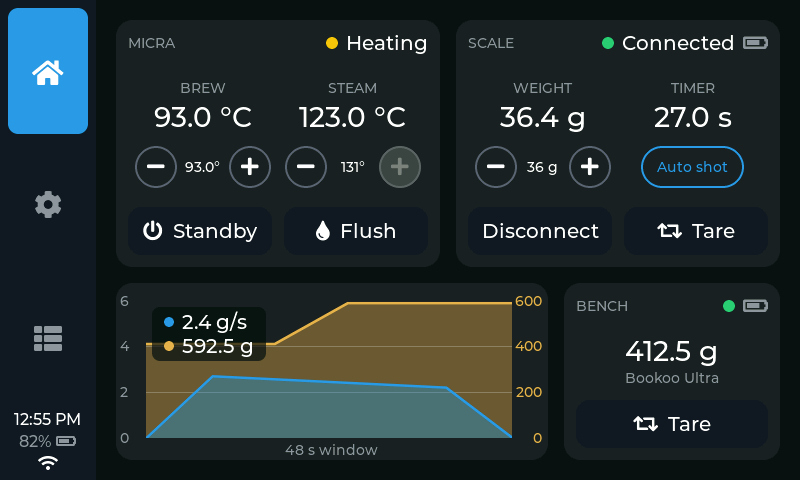
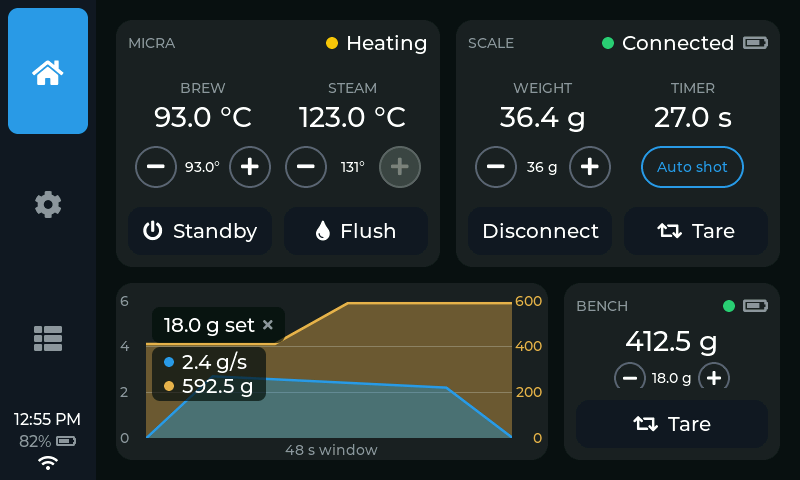
home: the beside-the-graph bench card gets the default-dose stepper too, on the scale name's line
The card is the graph's height — ~65 px of body at 800x480 — so there is
room for the weight and ONE line under it. The stepper takes the scale
name's line (the name is in Settings), and a Record offer / recorded
caption takes it back for as long as it shows (bench_dose_on_caption;
dose_tick re-syncs on a block state change). Button 32 dp where the
screen is 480 logical, the panel's 42 dp on the X boards' 500 — both
measured in the sim: overflow -4 / -19 (slack, not clip); the detail
log's 'home: bench card' line carries the figure. Manual + images.

Changed region(s): [[0.1875, 0.6562, 0.3438, 0.8438], [0.75, 0.6875, 0.9062, 0.8125]]

diff --git a/src/ui/home_tab.cpp b/src/ui/home_tab.cpp
@@ -1171,6 +1171,9 @@ void add_bench_battery(lv_obj_t* status_group, const lv_font_t* cap_font,
 // battery), a hero weight with the scale's name under it, and the actions —
 // Disconnect + Tare in the panel slot, Tare alone beside the graph (its
 // Connect lives in Settings; the beside card is the readout).
+// set_font / btn_size / symbol_font size the default-dose stepper: the
+// caller picks a smaller button where the card is short (beside the graph
+// at 800x480).
 lv_obj_t* build_bench_panel(lv_obj_t* parent, const lv_font_t* cap_font,
                             const lv_font_t* status_font, const lv_font_t* val_font,
                             const lv_font_t* set_font, int btn_size,
@@ -1227,10 +1230,15 @@ lv_obj_t* build_bench_panel(lv_obj_t* parent, const lv_font_t* cap_font,
   // the graph's height — ~62 px of body at 800x480, which the weight and
   // its caption already fill — so it stays the readout it is (Tare only;
   // the dose is dialled in Settings there).
-  if (with_switch) {
+  if (with_switch || !with_connect) {
+    // Beside the graph the card is the graph's height — room for the
+    // weight and ONE line under it: the stepper takes the scale name's
+    // line, and a Record offer takes it back for its moment (App hides
+    // one or the other).
+    out.bench_dose_on_caption = !with_switch;
     lv_obj_set_style_pad_top(body, 0, 0);
-    make_stepper_group(body, btn_size, symbol_font, set_font, &out.bench_dose_value,
-                       &out.bench_dose_minus, &out.bench_dose_plus);
+    make_stepper_group(body, btn_size, symbol_font, set_font,
+                       &out.bench_dose_value, &out.bench_dose_minus, &out.bench_dose_plus);
     out.bench_dose_group = lv_obj_get_parent(out.bench_dose_value);
     lv_obj_set_style_margin_top(out.bench_dose_group, 0, 0);
     lv_obj_add_flag(out.bench_dose_group, LV_OBJ_FLAG_HIDDEN);
@@ -1458,6 +1466,7 @@ void build_home_tab(lv_obj_t* parent, const ScreenProfile& screen, bool scale_en
   out.bench_weight = out.bench_name = out.bench_block = nullptr;
   out.bench_dose_state = 0;
   out.bench_dose_group = out.bench_dose_value = out.bench_dose_minus = out.bench_dose_plus = nullptr;
+  out.bench_dose_on_caption = false;
   out.dose_chip = out.dose_in_label = out.dose_out_label = out.dose_ratio_label =
       out.dose_x_label = nullptr;
   out.dose_chip_state = 0;
@@ -1682,8 +1691,13 @@ void build_home_tab(lv_obj_t* parent, const ScreenProfile& screen, bool scale_en
     lv_obj_set_height(graph_card, lv_pct(100));
     lv_obj_set_width(graph_card, 0);
     lv_obj_set_flex_grow(graph_card, 2);
-    build_bench_panel(lower, panel_cap, panel_status, panel_val, panel_set, panel_btn,
-                      panel_sym, panel_pad, action_h, btn_font,
+    // The card is the graph's height: at 800x480 its body (~65 px) holds
+    // the weight plus a 32 dp stepper, no more; the X boards' extra height
+    // (500 logical) takes the panel-size button.
+    const bool tall = screen.height > ui::dp(480);
+    build_bench_panel(lower, panel_cap, panel_status, panel_val, panel_set,
+                      tall ? panel_btn : ui::dp(32), tall ? panel_sym : ui::font_dp(16),
+                      panel_pad, action_h, btn_font,
                       /*with_status_text=*/false, /*with_connect=*/false,
                       /*with_switch=*/false, out);
     lv_obj_set_flex_grow(out.bench_card, 1);
@@ -1718,6 +1732,13 @@ void build_home_tab(lv_obj_t* parent, const ScreenProfile& screen, bool scale_en
                static_cast<int>(lv_obj_get_height(body)), overflow,
                static_cast<int>(lv_obj_get_height(acts)), static_cast<int>(lv_obj_get_y(acts)),
                out.bench_enabled && out.bench_mode == 0 ? 1 : 0);
+  }
+  if (core::log_detail() && out.bench_card != nullptr && out.bench_dose_on_caption) {
+    lv_obj_t* body = lv_obj_get_child(out.bench_card, 1);
+    core::logf("home: bench card h=%d body=%d overflow=%d\n",
+               static_cast<int>(lv_obj_get_height(out.bench_card)),
+               static_cast<int>(lv_obj_get_height(body)),
+               static_cast<int>(lv_obj_get_scroll_bottom(body)));
   }
   // Swap mode starts on the ESPRESSO side: paint the pills to match.
   if (bench_enabled && out.bench_mode == 0 && !out.bench_only) show_bench_side(out, false);

diff --git a/src/ui/app.cpp b/src/ui/app.cpp
@@ -5389,10 +5389,13 @@ void App::dose_tick(const core::MachineSnapshot& snap) {
                                                    : "expired");
 
   // The bench card's block: dormant / Record <dose> / recorded.
+  const int block_was = home_.bench_dose_state;
   if (!have_bench) ui::set_bench_dose(home_, 0, 0.0f);
   else if (dose_.recorded_showing()) ui::set_bench_dose(home_, 2, dose_.pending());
   else if (dose_.candidate()) ui::set_bench_dose(home_, 1, dose_.candidate_dose());
   else ui::set_bench_dose(home_, 0, 0.0f);
+  // Beside the graph the block's caption and the dose stepper share a line.
+  if (home_.bench_dose_on_caption && home_.bench_dose_state != block_was) sync_dose_settings_rows();
 
   // The graph chip builds up: in -> in + placeholder out -> in + out + ratio.
   const core::BrewSnapshot bs = brew_ != nullptr ? brew_->snapshot() : core::BrewSnapshot{};
@@ -5565,8 +5568,15 @@ void App::sync_dose_settings_rows() {
     if (g > 0.0f) std::snprintf(b, sizeof(b), "%.1f g", static_cast<double>(g));
     else std::snprintf(b, sizeof(b), "Off");
     lv_label_set_text(home_.bench_dose_value, b);
-    if (show) lv_obj_remove_flag(home_.bench_dose_group, LV_OBJ_FLAG_HIDDEN);
+    // Beside the graph the stepper and the caption share one line: the
+    // caption only while a dose is offered / recorded.
+    const bool caption_busy = home_.bench_dose_on_caption && home_.bench_dose_state != 0;
+    if (show && !caption_busy) lv_obj_remove_flag(home_.bench_dose_group, LV_OBJ_FLAG_HIDDEN);
     else lv_obj_add_flag(home_.bench_dose_group, LV_OBJ_FLAG_HIDDEN);
+    if (home_.bench_dose_on_caption && home_.bench_name != nullptr) {
+      if (show && !caption_busy) lv_obj_add_flag(home_.bench_name, LV_OBJ_FLAG_HIDDEN);
+      else lv_obj_remove_flag(home_.bench_name, LV_OBJ_FLAG_HIDDEN);
+    }
   }
   if (settings_.dose_switch == nullptr || dose_settings_ == nullptr) return;
   // The switch and the default dose mean something with an espresso scale;

diff --git a/src/sim/main.cpp b/src/sim/main.cpp
@@ -351,8 +351,10 @@ int main() {
   ok &= r({1280, 800, 1.6f}, "renders/home_bench_card_bench_1280x800.png", 0, -1, false, 0,
           -1, false, -1, 0, false, false, 0, false, false, false, false, 0, -1, false, -1, 1, 5);
   disp.set_bench_home_style(1);
-  ok &= r({800, 480}, "renders/home_bench_beside_800x480.png");
-  ok &= r({1280, 800, 1.6f}, "renders/home_bench_beside_1280x800.png");
+  ok &= r({800, 480}, "renders/home_bench_beside_800x480.png", 0, -1, false, 0, -1,
+          false, -1, 0, false, false, 0, false, false, false, false, 0, -1, false, -1, 0, 5);
+  ok &= r({1280, 800, 1.6f}, "renders/home_bench_beside_1280x800.png", 0, -1, false, 0,
+          -1, false, -1, 0, false, false, 0, false, false, false, false, 0, -1, false, -1, 0, 5);
   disp.set_bench_home_style(0);
   // Dose from the bench scale: a loaded portafilter (480 g stored) on the
   // bench offers Record on the BENCH side; recorded, the chip appears in the

diff --git a/include/ui/home_tab.h b/include/ui/home_tab.h
@@ -142,6 +142,7 @@ struct HomeWidgets {
   // setting as Settings > Scale > Shot settings > Default dose, reachable
   // from the card so a dose can be dialled without leaving Home. Hidden
   // unless Record dose is active (App::sync_dose_settings_rows).
+  bool bench_dose_on_caption = false;  // beside card: the stepper takes the name's line
   lv_obj_t* bench_dose_group = nullptr;
   lv_obj_t* bench_dose_value = nullptr;
   lv_obj_t* bench_dose_minus = nullptr;

diff --git a/MANUAL.md b/MANUAL.md
@@ -260,10 +260,10 @@ column on the shot's card and the web page).
   standby, or an hour passing.
 - **A default dose** (Settings → Scale → Shot settings → Default dose, off
   unless you set it) is for a constant daily dose, or for using the ratio
-  with no bench scale at all. When the bench scale shares the panel with
-  the espresso scale, the BENCH side carries the same **− / +** under its
-  weight, so the dose can be dialled without leaving Home (the card beside
-  the graph is the readout only). It is staged for every shot: the chip shows
+  with no bench scale at all. The BENCH card carries the same **− / +**
+  under its weight — on the swap card below the scale's name, beside the
+  graph in its place (a Record offer takes that line back while it shows)
+  — so the dose can be dialled without leaving Home. It is staged for every shot: the chip shows
   it as **18.0 g set**, and a dose you record overrides it for that one
   shot. The **×** on a staged default skips it for the next shot only; it
   is staged again after that shot, or when you've walked away as above.
